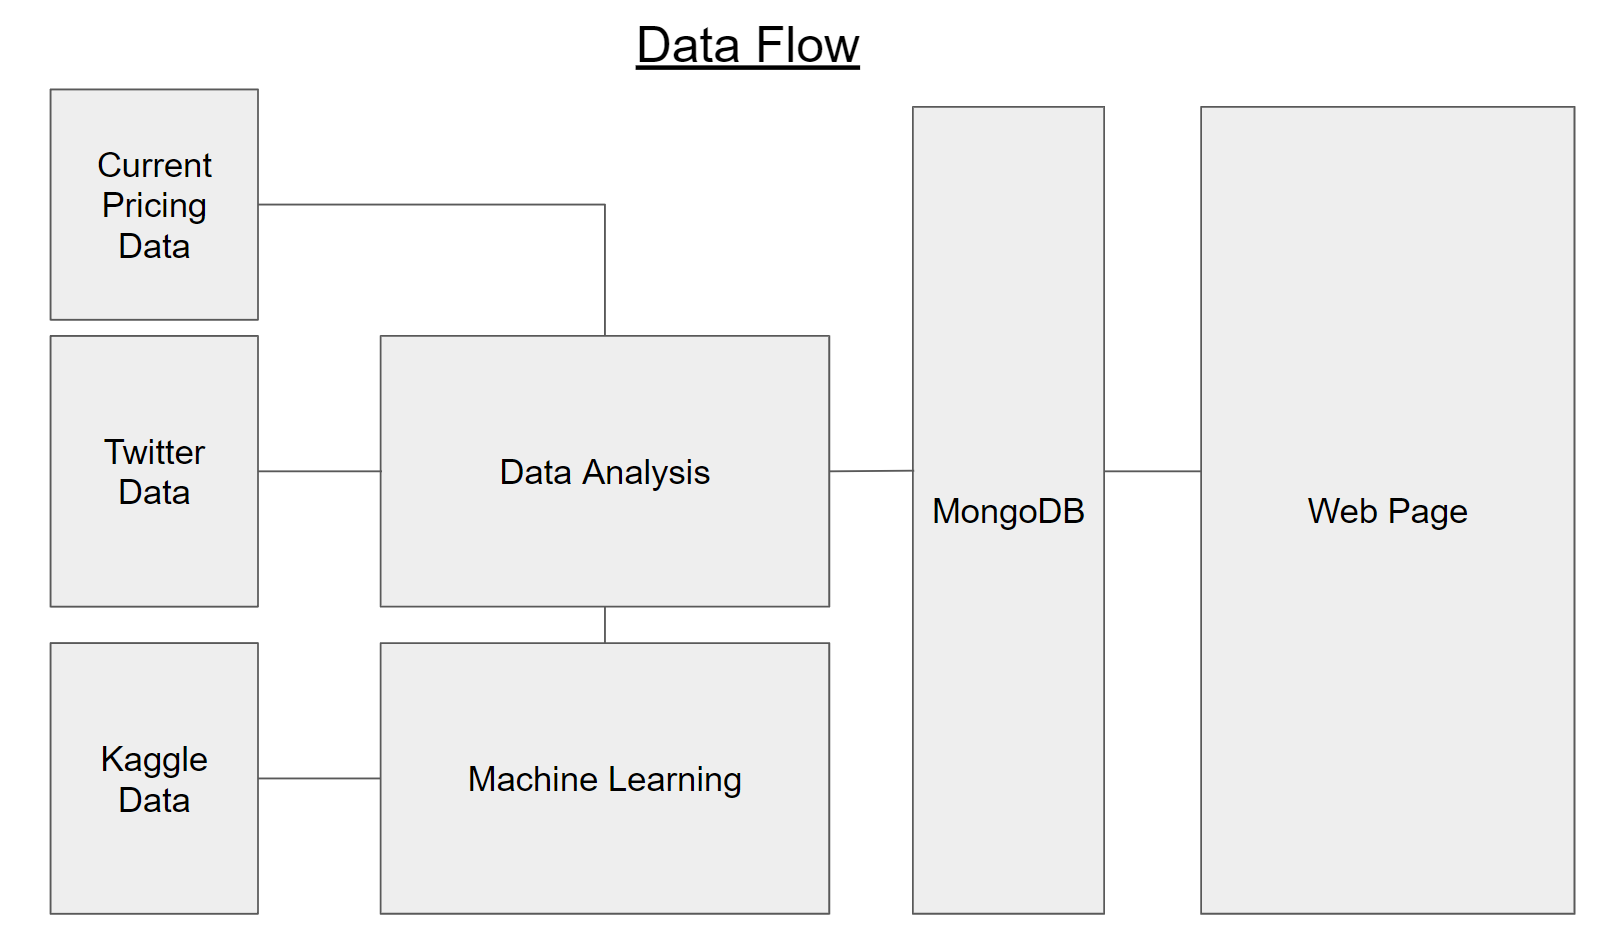
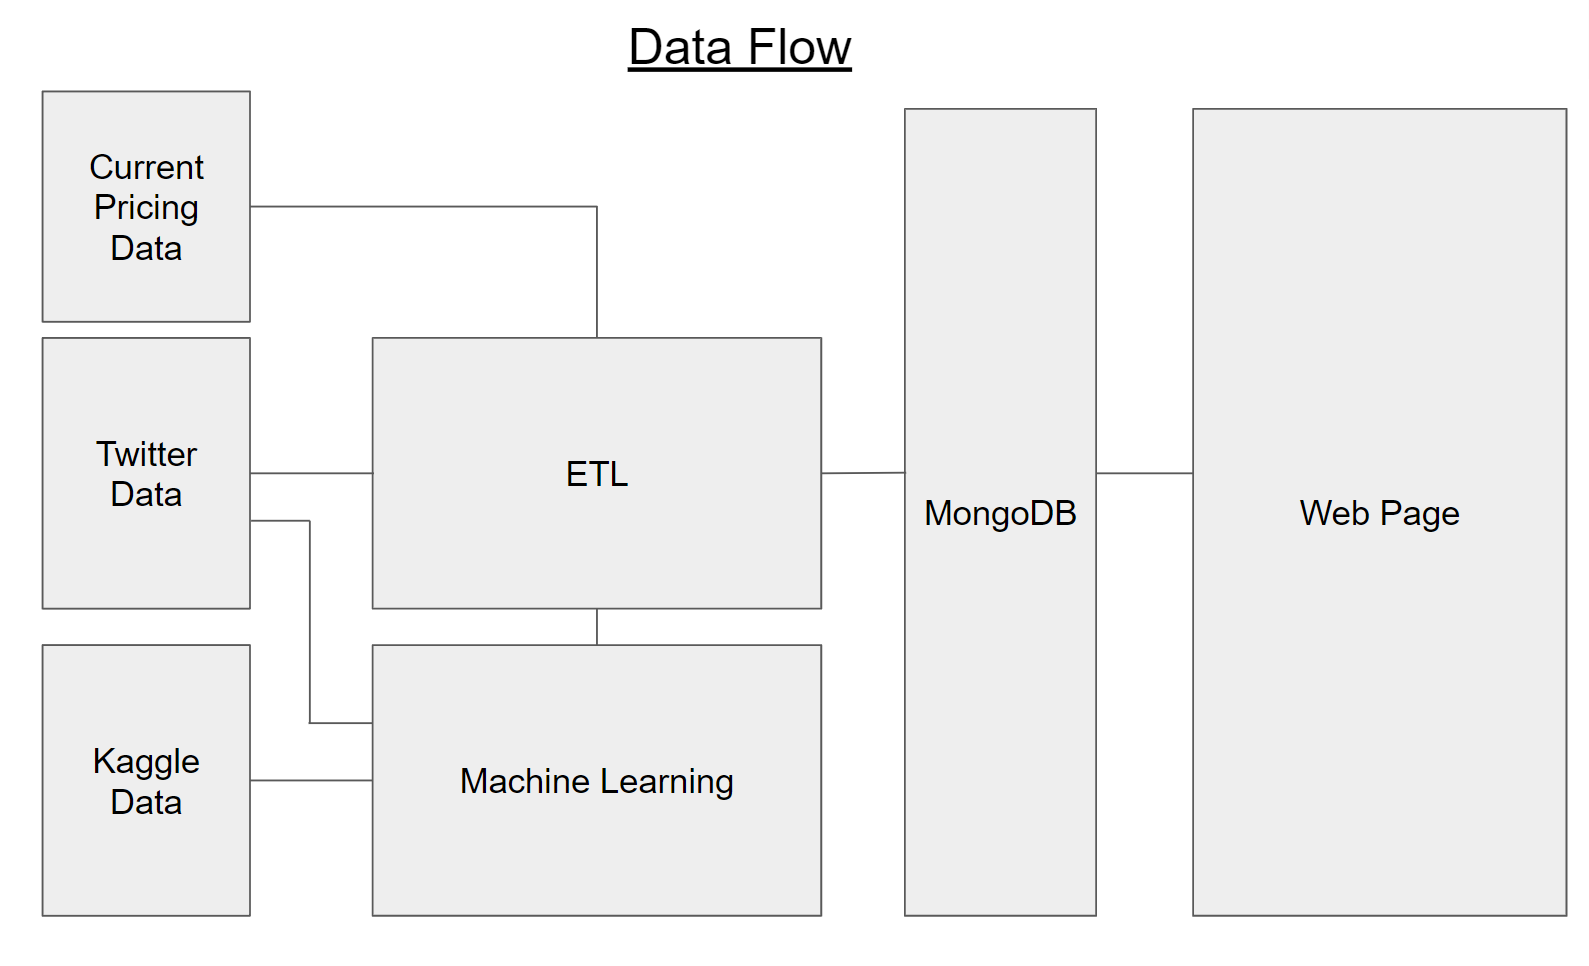
Adding polish for final submission

diff --git a/public/views/about.html b/public/views/about.html
@@ -43,14 +43,20 @@
         <div class="w3-third w3-center">
           <div class="w3-card w3-container" style="height:620px">
                 <h3 id="about">About</h3><br><br>
-                <p>In today's modern world, fuel is an essential part of everyday life. It helps us get to work on time, receive packages when we order products online, fuels some of the machinery that helps grow our food, and does so many more things. However, in recent events, the price of fuel has seen significant fluctuation causing worries in the average American as the price begins to take a chunk out of their wallet.</p>
+                <p>In today’s modern world, fuel is an essential part of everyday life. It helps us get to work on time, receive packages when we order products online, fuels some of the machinery that helps grow our food, and does so many more things. However, in recent events, the price of fuel has seen significant fluctuation causing worries in the average American as the price begins to take a chunk out of their wallet.</p>
           </div>
     </div>
 
         <div class="w3-third w3-center">
             <div class="w3-card w3-container" style="height:620px">
                 <h3 id="goal">Goal</h3><br><br>
-                <p>The goal is to create a dashboard hosted on a webpage that will provides users with fuel related information. In particular, the dashboard will predict future gasoline prices and show a graphic representing user sentiment on twitter surrounding gasoline and oil. To compliment this information, some of the twitter posts will be showcased and the historical gasoline and oil data will be displayed on a line graph.</p>
+                <p>The goal is to create a dashboard hosted on a webpage that will provide users with fuel related information. In particular, the dashboard will focus on two sub-topics.</p>
+                <ul>
+                        <p>1. Analyze the relationship between Crude Oil & Gasoline Prices using a linear regression model.</p>
+                        <p>2. Identify the sentiment in twitter posts and determine if sentiment can reliably be extracted from the posts.</p>
+                </ul> 
+                
+                    
             </div>
         </div>
 
@@ -68,10 +74,10 @@
                 <p>MongoDB</p>
                 </li>
                 <li>
-                <p>Supervised Learning: Linear Regression</p>
+                <p>Supervised Learning: Linear Regression (sci-kit learn)</p>
                 </li>
                 <li>
-                <p>Natural Language Processing: Sentiment Analysis</p>
+                <p>Natural Language Processing: Sentiment Analysis (textblob)</p>
                 </li>
                 </ul>
             </div>

diff --git a/public/js/index.js b/public/js/index.js
@@ -1,7 +1,6 @@
-//const { query } = require("express");
-
 const baseURL = "http://localhost:8080/"
 
+// function to gather all data from the database
 async function init(){
 
     await Promise.all([
@@ -28,7 +27,7 @@ async function init(){
 
 }
 
-
+// Build the table showing today's gas prices.
 function buildTable(current_data, future_data) {
     // First, clear out any existing data
     var tbody = d3.select("tbody");
@@ -49,22 +48,9 @@ function buildTable(current_data, future_data) {
         let cell = row.append("td");
         cell.text(`$${myJSON[x].toFixed(2)}`);
     })
-
-    // // Parse data into JSON format
-    // myJSON = JSON.parse(future_data)
-
-    // //Add row header
-    // row = tbody.append("tr");
-    // cell = row.append("td");
-    // cell.text("Predicted Average");
-
-    // //Iterate through data and add todays gas prices
-    // fuels.forEach(x => {
-    //     let cell = row.append("td");
-    //     cell.text(`$${myJSON[x].toFixed(2)}`);
-    // })
 }
 
+// Helper function to isolate the column data we want.
 function jsonValueExtract(sample, colName){
     let results = [];
     for( const x in sample[colName]){
@@ -73,10 +59,13 @@ function jsonValueExtract(sample, colName){
     return results;
 }
 
+// Build out both line charts.
 function buildLineChart(sample) {
+
     // Parse data into JSON format
     const myJSON = JSON.parse(sample)
 
+    // Extract the date field which will be constant across our traces.
     const gasDates = jsonValueExtract(myJSON, "Date");
 
     var trace1={
@@ -138,6 +127,7 @@ function buildLineChart(sample) {
 
 }
 
+// Build out the stacked bar chart for sentiment polarity.
 function buildSentimentChart(sentiment_dict){
 
     var json_obj = sentiment_dict;
@@ -182,6 +172,7 @@ function buildSentimentChart(sentiment_dict){
     Plotly.newPlot('barChart01', data, layout);
 }
 
+// Inserts the html code to show the sample tweets in the classical tweet format.
 function insert_tweets(neg_data, neut_data, pos_data){
     // Grab handle to containers where the tweets will go.
     var neg_container = d3.select("#negTweet");
@@ -207,6 +198,7 @@ function insert_tweets(neg_data, neut_data, pos_data){
 
 }
 
+// helper function for the collapsible navigation bar.
 function openNav(){
     var sideBar = d3.select("#mySidebar");
     sideBar.style("fontSize", "40px");
@@ -214,6 +206,7 @@ function openNav(){
     sideBar.style("display", "block");
 }
 
+// helper function for the collapsible navigation bar.
 function closeNav(){
     var sideBar = d3.select("#mySidebar");
     sideBar.style("display", "none");

diff --git a/app.js b/app.js
@@ -41,6 +41,7 @@ app.get("/:fileName", (req, res) =>{
     }
 })
 
+// connect to the database
 async function main(){
     try{
         await client.connect();
@@ -49,6 +50,7 @@ async function main(){
     }
 }
 
+// helper function to find all documents in a collection matching a query.
 async function findAll(colName, query={}){
     const cursor = db.collection(colName).find(query);
     const results = await cursor.toArray();
@@ -61,37 +63,7 @@ async function findAll(colName, query={}){
     }
 }
 
-
-async function init(){
-    // Set up database connection
-    const client = new MongoClient(uri);
-    const db = client.db(dbName);
-
-    // Initialize containers for database data retrieval
-    let tableData = null;
-    let chartData = null;
-    let sentimentData = null;
-    let twitterData = null;
-
-
-    try{
-        await client.connect();
-        chartData = await findAll(db, "gas_history");
-        tableData = await findAll(db, "current_pricing");
-    } catch(e){
-        console.error(e);
-    }finally{
-        await client.close();
-    }
-
-    buildTable(tableData);
-}
-
-
-
-
-
-//init();
+// Initiate the database connection and begin listening for requests.
 main().catch(console.error);
 var listener = app.listen(port, ()=>{
     console.log('Your app is listenting on port ' + listener.address().port);

diff --git a/twitter_data.py b/twitter_data.py
@@ -13,6 +13,7 @@ from config import access_token
 from config import access_token_secret
 from config import token
 
+# Helper function to generate and scrape html code that allows for twitter posts to be embedded.
 def get_embed_code(tweet_id, browser):
     try:
         url='https://publish.twitter.com/#'

diff --git a/README.md b/README.md
@@ -1,4 +1,5 @@
-# **Gasoline Price Predictor**
+# **Gasoline Price Dashboard**
+
 
 ## **Overview**
 
@@ -6,7 +7,9 @@
 In today’s modern world, fuel is an essential part of everyday life. It helps us get to work on time, receive packages when we order products online, fuels some of the machinery that helps grow our food, and does so many more things. However, in recent events, the price of fuel has seen significant fluctuation causing worries in the average American as the price begins to take a chunk out of their wallet. 
 
 ### Goal
-The goal is to create a dashboard hosted on a webpage that will provides users with fuel related information. In particular, the dashboard will predict future gasoline prices and show a graphic representing user sentiment on twitter surrounding gasoline and oil. To compliment this information, some of the twitter posts will be showcased and the historical gasoline and oil data will be displayed on a line graph.
+The goal is to create a dashboard hosted on a webpage that will provide users with fuel related information. In particular, the dashboard will focus on two sub-topics.
+1. Analyze the relationship between Crude Oil & Gasoline Prices using a linear regression model.
+2. Identify the sentiment in twitter posts and determine if sentiment can reliably be extracted from the posts.
 
 ### Technologies Used
 - Python
@@ -15,31 +18,30 @@ The goal is to create a dashboard hosted on a webpage that will provides users w
 - Supervised Learning: Linear Regression (sci-kit learn)
 - Natural Language Processing: Sentiment Analysis (textblob)
 
-### Current Status
-12/21/2022 - This week the deliverables for Segment 4 will be submitted. The biggest progress this week was the creation of the web pages and connecting them to the database. We were able to successfully retrieve information from mongoDB using node.js and express.js. 
-The supervised machine learning models' predictions were incorporated into the dashboard, so the webpage shows predictions for gas and diesel prices based on current and historical crude oil prices. Additionally, the webpage now hosts graphs depicting how well the testing data compared to the training data (see pink and blue graphs for diesel and green and orange graphs for gas prices). The natural language processing sentiment analysis was incorporated into the dashboard as well and a histogram depicting the distribution of consumers' sentiment was included (see pink and blue histogram). 
-Additionally, the connection to the database posed an unprecedented challenge as Node.js and Express.js was new technology that had to be learned and led to some of the data not being added to the web page on time. See Figure 6 in the [Dashboard](#dashboard) section below to see what the current home page looks like.
-To get started on your machine, download the requiremnts file (see GetStarted.txt).
+<br>
 
-Some things to note are that:
-- The web page is hosted locally. To run it on localhost it requires installation of node.js, express.js, and the mongodb driver.
-- The twitter data has not been added to the home web page.
-- Dummy data was used in stead of the twitter data and current gas prices prediction.
-- The web page back end can be found in the `app.js` file and the front end components can be found under the `public` folder.
-- The only interactive elements at the moment are the navigation bar and the built in interactions from the Plotly.js charts.
+### Running the Project
+If you would like to run this project on your machine please refer to the `GetStarted.txt` file to see what software is required and how to run the dashboard.
 
 <br>
 
 ### Presentation
-Click [here](https://docs.google.com/presentation/d/10gvLuSyp35iwKA9KIDbKwRrCyrYTq0hdkg3Yi2Cu_y0/edit?usp=sharing) to see the presentation hosted on Google Slides.
+Click [here](https://youtu.be/iJ34HNs7qag) to see the presentation hosted on Google Slides.
 
 <br>
 
-## **Workflow**
+### Dashboard
+Click [here](https://docs.google.com/presentation/d/10gvLuSyp35iwKA9KIDbKwRrCyrYTq0hdkg3Yi2Cu_y0/edit?usp=sharing) for a walkthorugh of our dashboard on YouTube.
 
-### Project Outline
-From a high level overview, static (e.g. downloaded) and live (e.g. scraping) data is being taken using Python to then be fed to machine learning models to generate price predictions and evaluate sentiment, or emotions expressed. All this pulled data and machine learning output is then connected and uploaded to a MongoDb database where it sits until the webpage needs it. Below are four figures increasing in specificity that outline how the project functions.
+<br>
 
+## **Project Structure**
+
+### High Level Overview (See Figure 1)
+- We start with data sources which represent the process of taking the raw data from various sources and preparing it to be suitable for analysis.
+- Then, the data sources are fed into the mysterious black box which represents the process taken to extract the information that will be presented in our dashboard. 
+- Once the right information has been generated, all of it is inserted into a NoSQL database which acts like a barrier between the data gathering and the data visualization. The database fully separates the two. The dashboard does not talk to the code analyzing the data; it simply pulls what has already been analyzed and inserted into the database.
+- Finally, the dashboard is generated in a web page format.
 
 <p align="center">
     <img src="Resources/images/HighLevel_Overview.PNG"><br>
@@ -48,6 +50,12 @@ From a high level overview, static (e.g. downloaded) and live (e.g. scraping) da
 
 <br>
 
+### Data Flow (See Figure 2)
+
+- Current Pricing Data - this data is scraped and cleaned before being fed to the linear regression model to aggregate with the historical data. Additionally, this data flows directly to the database for plotting on the webpage.
+- Twitter Data - this data is pulled from the Twitter api and cleaned before being passed to the sentiment analysis model. Once the sentiment score is added it goes back one more time through the ETL process before going into the database.
+- Kaggle Data - this data is downloaded statically and provided to the machine learning model to provide the bulk of the historical data that will be used in the linear regression model.
+
 <p align="center">
     <img src="Resources/images/Data_Flow.PNG"><br>
     Figure 2 (Data Flow)
@@ -55,16 +63,14 @@ From a high level overview, static (e.g. downloaded) and live (e.g. scraping) da
 
 <br>
 
-<p align="center">
-    <img src="Resources/images/Data_Analysis.PNG"><br>
-    Figure 3 (Data Analysis Breakdown)
-</p>
+### File Structure (See Figure 3)
+The project has two sides, the python side where data is gathered and the javascript side where data is visualized. These two sides are divided by the database and don't interact with each other. 
 
-<br>
+In the python side, the structure centralizes around the `logic.py` file which calls and retrieves the information from all the other functions hosted on the various python modules. One thing to note here, is that we currently have two files that involve machine learning `ml_analyze.py` and `gas_oil_LR_twitter_NLP.py`. The intent was for ml_analyze.py to generate the machine learning analysis images and attach the sentiment score to the tweet data datframe. However, currently `ml_analyze.py` handles appending the score  to the dataframe and `gas_oil_LR_twitter_NLP.py` generates all the machine learning images which are statically hosted in the `public/images` folder.
 
 <p align="center">
     <img src="Resources/images/Rough_File_Structure.PNG"><br>
-    Figure 4 (Rough File Structure)
+    Figure 3 (Rough File Structure)
 </p>
 
 <br>
@@ -147,6 +153,9 @@ To scrape the data from Twitter, we created a Twitter account and applied to acc
 In order to grab data longer than seven days from Twitter, we scraped new Tweets every day and added it to the previous combined data (`tweets.csv` and `tweet_count.csv`).
 
 ![tweepy-process](https://user-images.githubusercontent.com/29410712/208571508-260f3818-9f92-45b5-822f-fdea08f5ed1f.png)
+<p align="center">
+    Figure 4 (Tweepy Process)
+</p>
 
 ### Gas & Diesel Prices (scraping.py)
 We were able to access the historic gas and diesel prices from Statistica. From there we needed to scrape AAA to get the current gas prices. BeautifulSoup is a Python package for parsing HTML and XML documents. It creates a parse tree for parsed pages that can be used to extract data from HTML, which is useful for web scraping. By using this package and the HTML source code from the webpage, we were able to extract the current price of gasoline and diesel. Similar to the process of scraping Twitter, we added the new data from AAA to the historic data from Statistica to create the current gas price data.
@@ -155,8 +164,22 @@ We were able to access the historic gas and diesel prices from Statistica. From 
 To access the current crude oil prices, we scraped the closing price oil on MarketWatch. MarketWatch is a website that provides financial information, business news, analysis, and stock market data. Since the crude oil prices are updated along with the stock exchange, the data does not include weekends. This follows a similar process to scraping the gas & diesel prices.
 
 ![scraping](https://user-images.githubusercontent.com/29410712/208578865-9de62125-b4de-4266-9e2c-9d3a953bd3bb.jpg)
+<p align="center">
+    Figure 5 (Scraping Process)
+</p>
+
 
 ## Database
+
+For the database a NoSQL model was used, in particular MongoDB. MongoDB was selected as originally, the plan was to generate the images associated with the machine learning analysis in python and save the images into the database.Thus, necessitating the need for a NoSQL model.
+
+Additionally, the other data that was being inserted did not require complex lookups or joins so using an SQL database did not provide any additional benefits.
+
+Ultimately, however, due to time constraints the generated images were linked directly on the webpage instead of being passed through the database. Rendering the use of a NoSQL model a moot point.
+
+Nonetheless, as MongoDB was our database of choice, we utilized PyMongo to insert our data thorugh python and used the MongoDB driver for node.js to retrive the data in javascript.
+
+See the code in `logic.py` and `app.js` to see the code interacting with the database.
 
 <br>
 
@@ -174,23 +197,26 @@ Four web pages were created with the following purposes.
 - CSS3 - Page styling.
 - Plotly.js - Fuel price line graph & sentiment graphic.
 - Node.js - Database connection.
-- Express.js - Middleware between front end and backend.
+- Express.js - Middleware for handling url routes.
 - JavaScript - Handle dynamic content (e.g. click events).
 
 ### Interactive Elements
-- Navigation Bar- clickable links allowing navigation between the About page and the Home page.
+- Navigation Bar- clickable links allowing navigation between the About page, Presentation Page and the Home page.
 - Twitter Post - clickable links directing the user to the original twitter post on Twitter.
-- User Info - clickable link redirecting the user to the respective collaborator’s github page.
+- Line and Bar Charts - interactive elements natively available from plotly.js
+
+### Storyboard
+The website design was originally storyboard to be comprised of only two web pages with the layouts seen in Figure 6. In the final iteration of our project, this was changed to be three pages with the main page having a drastically different look as seen in Figure 7.
 
 <p align="center">
     <img src="Resources/images/Storyboard.PNG"><br>
-    Figure 5 (Storyboard)
+    Figure 6 (Original Storyboard)
 </p>
 
 <br>
 
 <p align="center">
     <img src="Resources/images/Home_Page.png"><br>
-    Figure 6 (Home Page)
+    Figure 7 (Home Page)
 </p>
 
